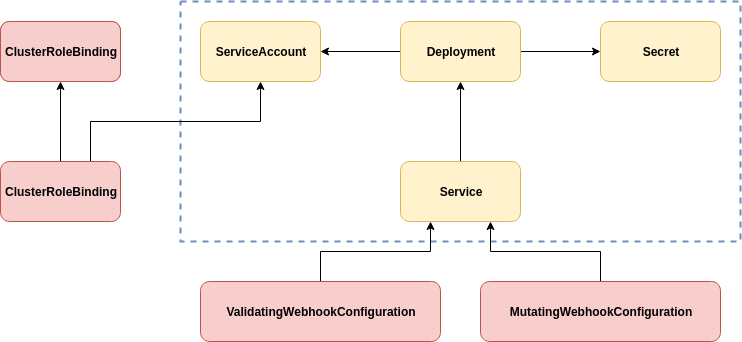
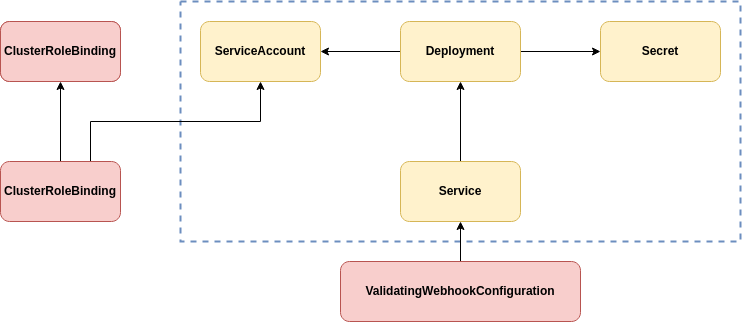
K8S-2629: Remove Mutation from Docs
Doesn't happen now, also update the RBAC stuff while poking in this
area.  Yes I know there are code changes, but they will get picked up by
2.3.1 or 2.4.0.

diff --git a/pkg/config/admission.go b/pkg/config/admission.go
@@ -75,9 +75,6 @@ type generateAdmissionOptions struct {
 	// validateStorageClasses causes the validation of storage classes.
 	validateStorageClasses bool
 
-	// defaultFileSystemGroup causes the fsGroup to be filled in.
-	defaultFileSystemGroup bool
-
 	// logLevel allows the setting of the logging level.
 	logLevel zapLogLevelVar
 
@@ -122,7 +119,6 @@ func (o *generateAdmissionOptions) registerAdmissionGenerateFlags(cmd *cobra.Com
 	cmd.Flags().Var(&o.namespaceSelector, "namespace-selector", "Required namespace selector to use when scope is set to 'namespace'.  Format label=value[,label=value].")
 	cmd.Flags().BoolVar(&o.validateSecrets, "validate-secrets", true, "Validates secrets referenced by Couchbase resources, and their contents e.g. TLS configuration, for validity")
 	cmd.Flags().BoolVar(&o.validateStorageClasses, "validate-storage-classes", true, "Validates storage classes referenced by Couchbase resources")
-	cmd.Flags().BoolVar(&o.defaultFileSystemGroup, "default-file-system-group", true, "Fills in default file system group information on Couchbase volumes")
 	cmd.Flags().IntVar(&o.replicas, "replicas", admissionDefaultReplicas, "The number of replicas in the deployment")
 	cmd.Flags().BoolVar(&o.withResources, "with-resources", false, "Populates pod resource requests and limits")
 	cmd.Flags().Var(&o.cpuRequest, "cpu-request", "CPU requested for scheduling, only valid when used with --with-resources")
@@ -309,7 +305,6 @@ func (o *generateAdmissionOptions) validate() error {
 	// bother checking them.
 	if o.scope.value.isNamespaceScope() {
 		o.validateStorageClasses = false
-		o.defaultFileSystemGroup = false
 	}
 
 	return nil
@@ -415,20 +410,6 @@ func (o *generateAdmissionOptions) getAdmissionRole() runtime.Object {
 	}
 
 	if o.scope.value.isClusterScope() {
-		if o.defaultFileSystemGroup {
-			rules = append(rules, rbacv1.PolicyRule{
-				APIGroups: []string{
-					"",
-				},
-				Resources: []string{
-					"namespaces",
-				},
-				Verbs: []string{
-					"get",
-				},
-			})
-		}
-
 		if o.validateStorageClasses {
 			rules = append(rules, rbacv1.PolicyRule{
 				APIGroups: []string{
@@ -556,7 +537,6 @@ func (o *generateAdmissionOptions) getAdmissionDeployment() *appsv1.Deployment {
 								"-tls-private-key-file=" + "/var/run/secrets/couchbase.com/couchbase-operator-admission/tls.key",
 								"-validate-secrets=" + strconv.FormatBool(o.validateSecrets),
 								"-validate-storage-classes=" + strconv.FormatBool(o.validateStorageClasses),
-								"-default-file-system-group=" + strconv.FormatBool(o.defaultFileSystemGroup),
 							},
 							Ports: []corev1.ContainerPort{
 								{
